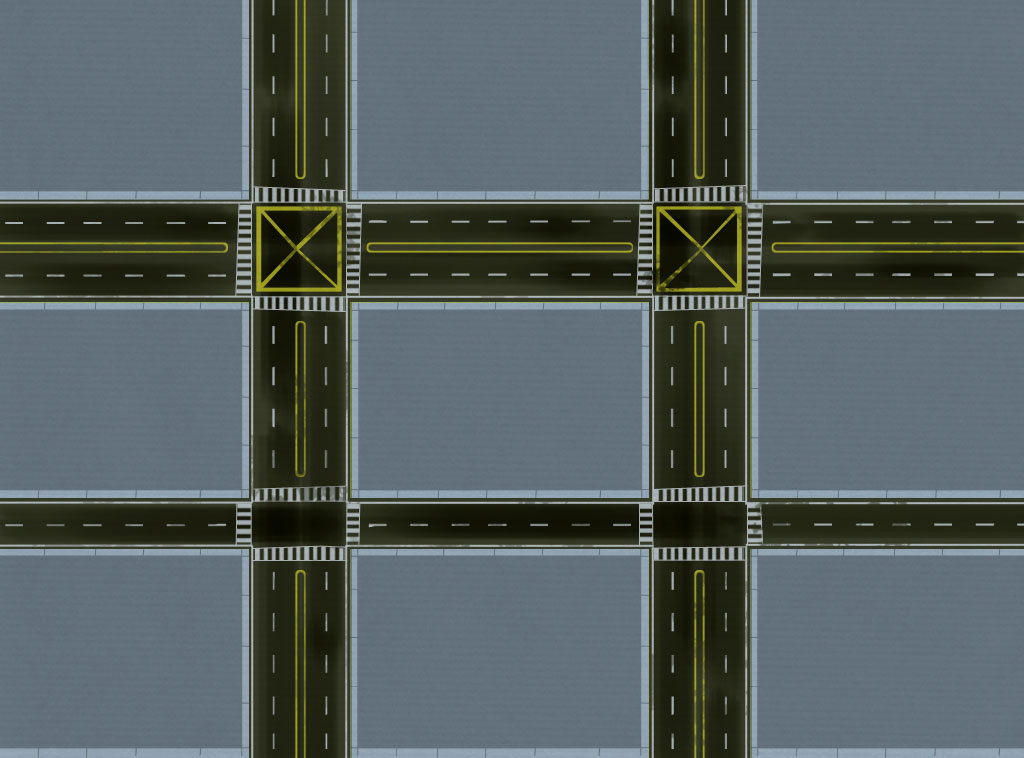
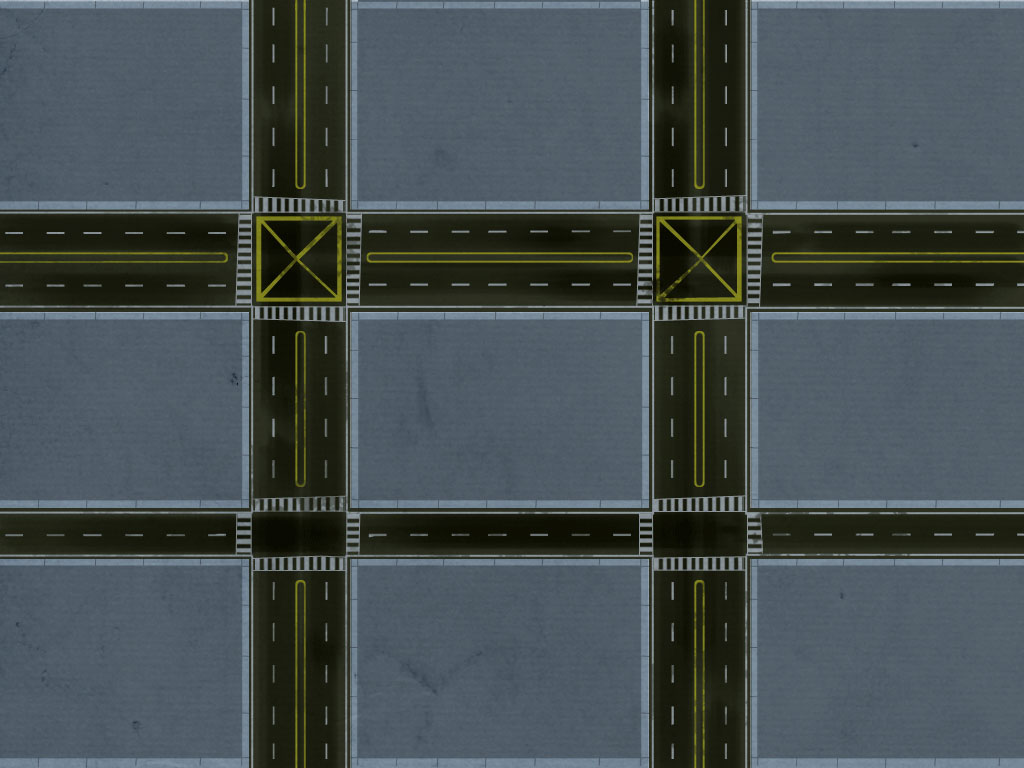
fixed bg

Changed region(s): [[0.0, 0.0, 1.0, 1.0]]

diff --git a/public/javascripts/map.js b/public/javascripts/map.js
@@ -185,7 +185,7 @@ var SOUND_FORMATS = { web : "mp3", ios : "wav" };
 
 
 var NEIGHBORHOOD = [
-  "bg.png", "buildings.png"
+  "bg.jpg", "buildings.png"
 ];
 
 var COLLISION_MESSAGES = [
